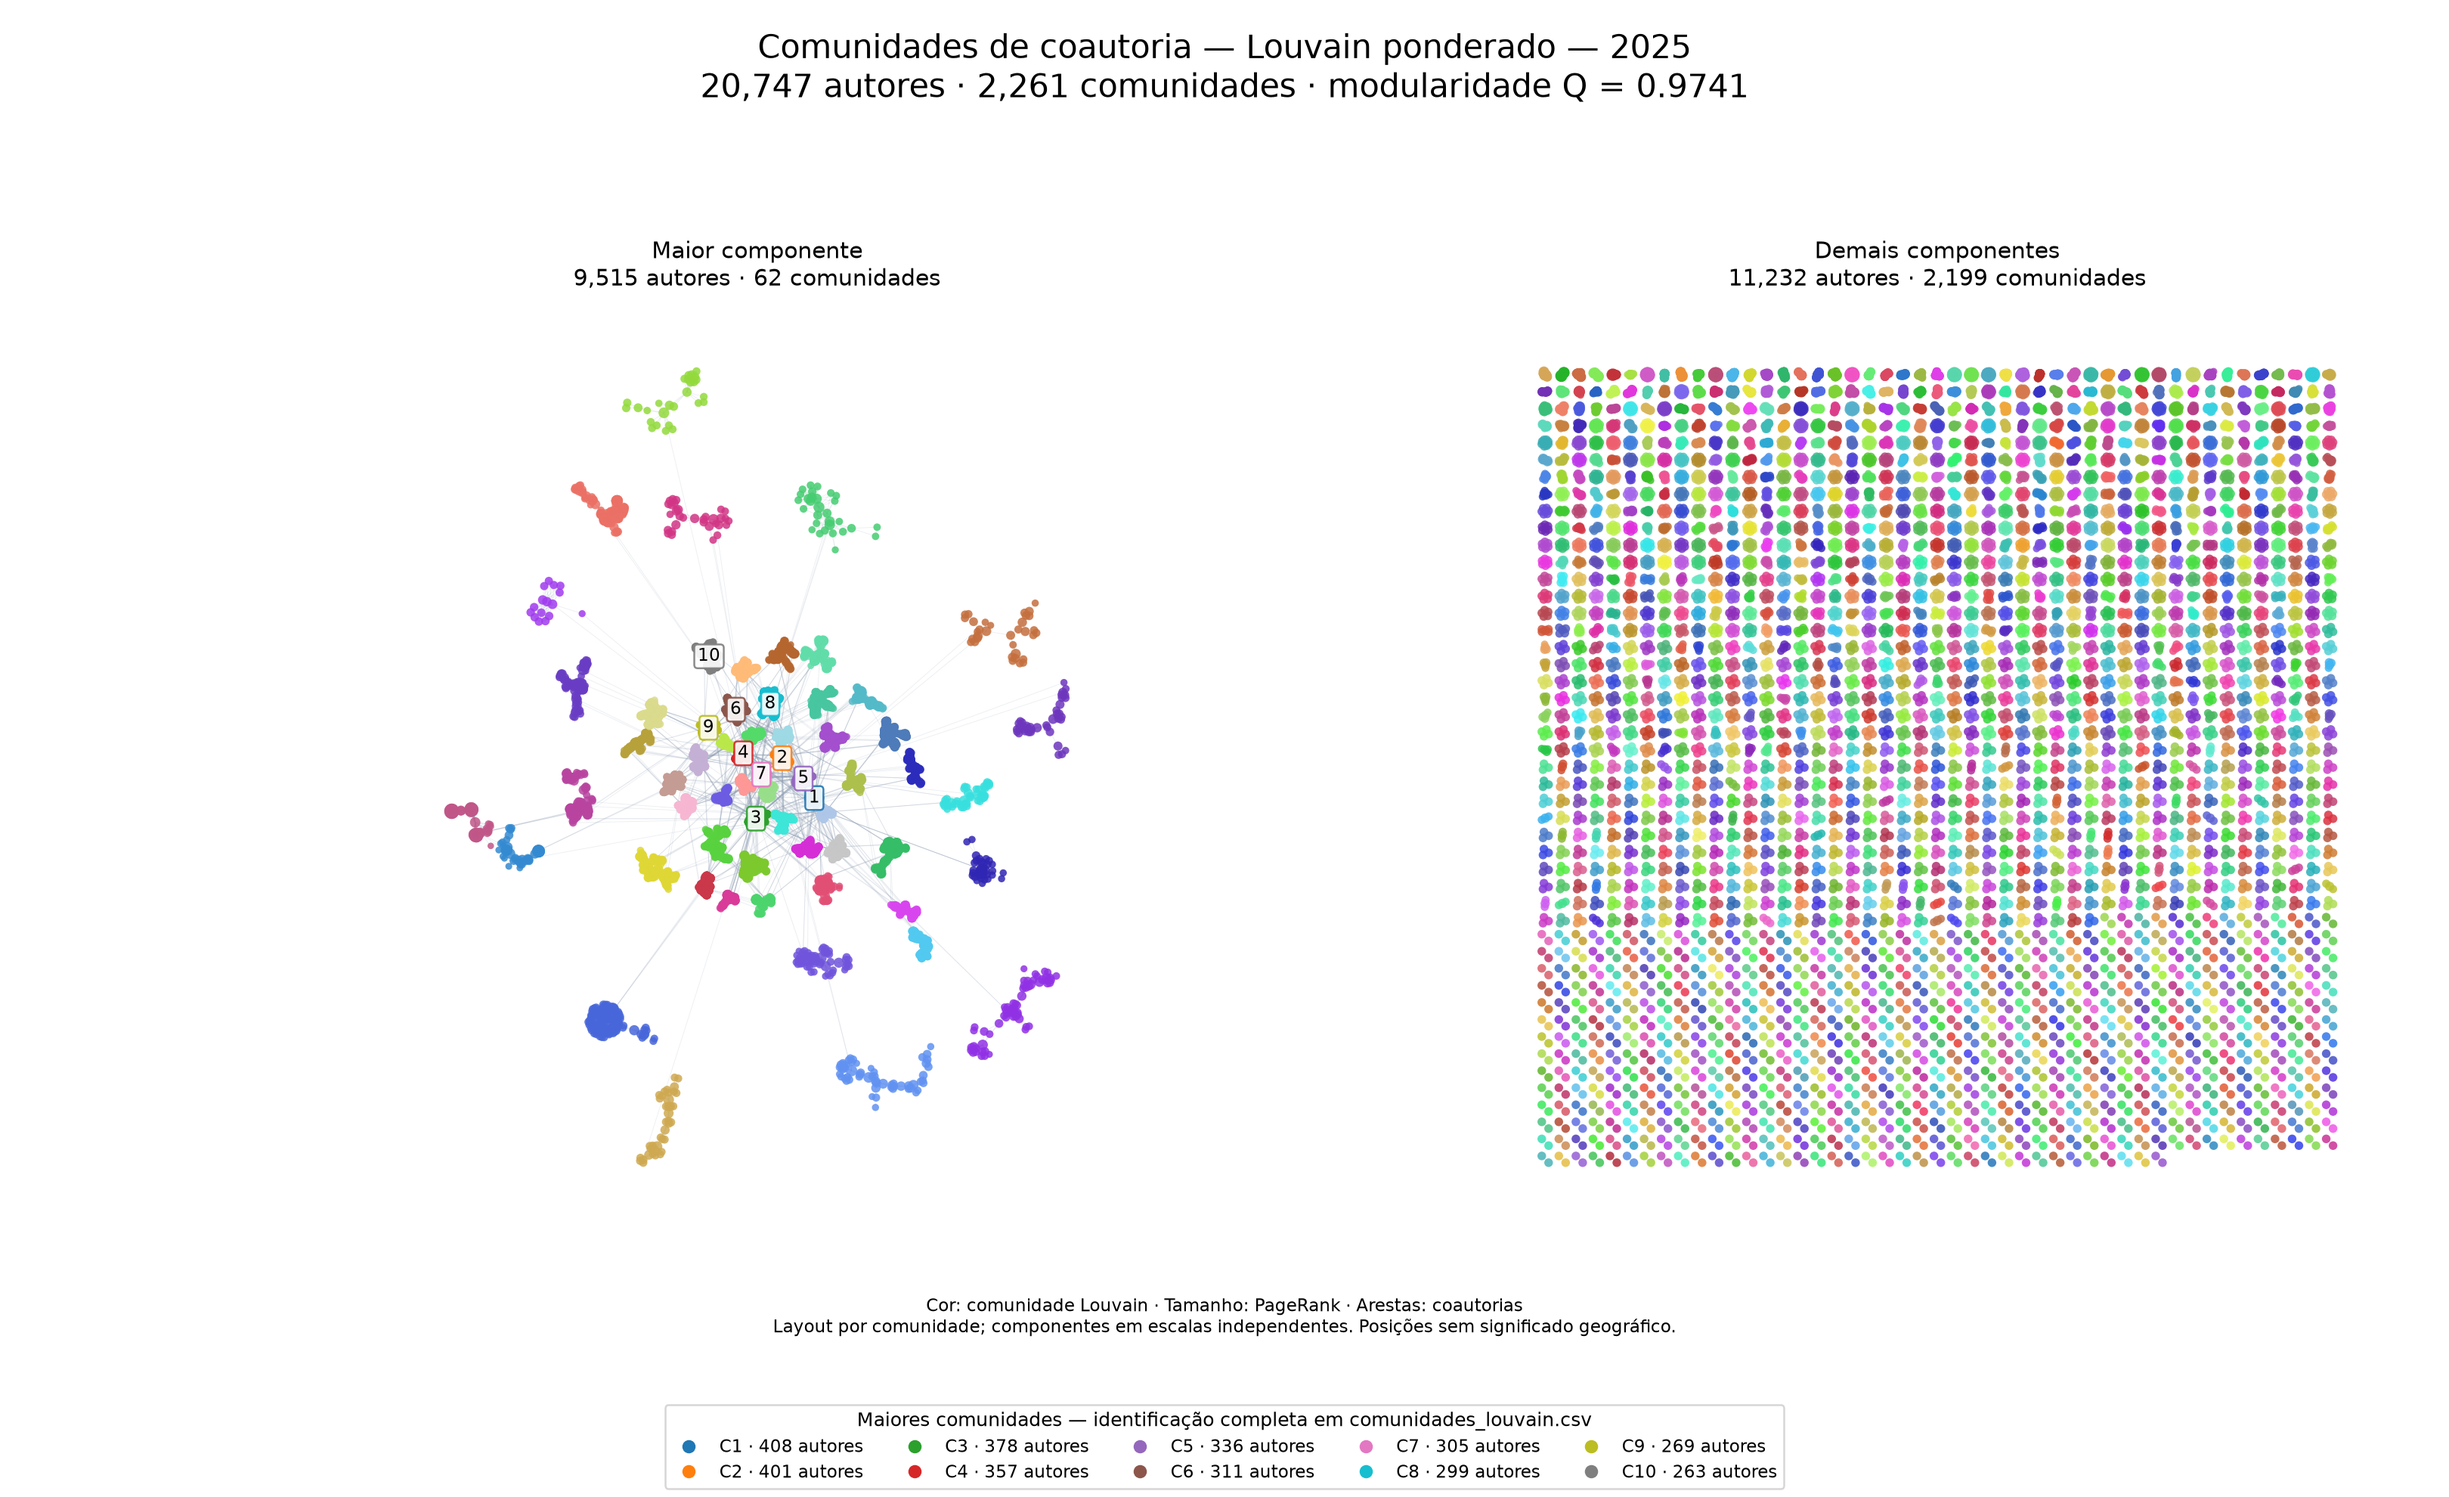
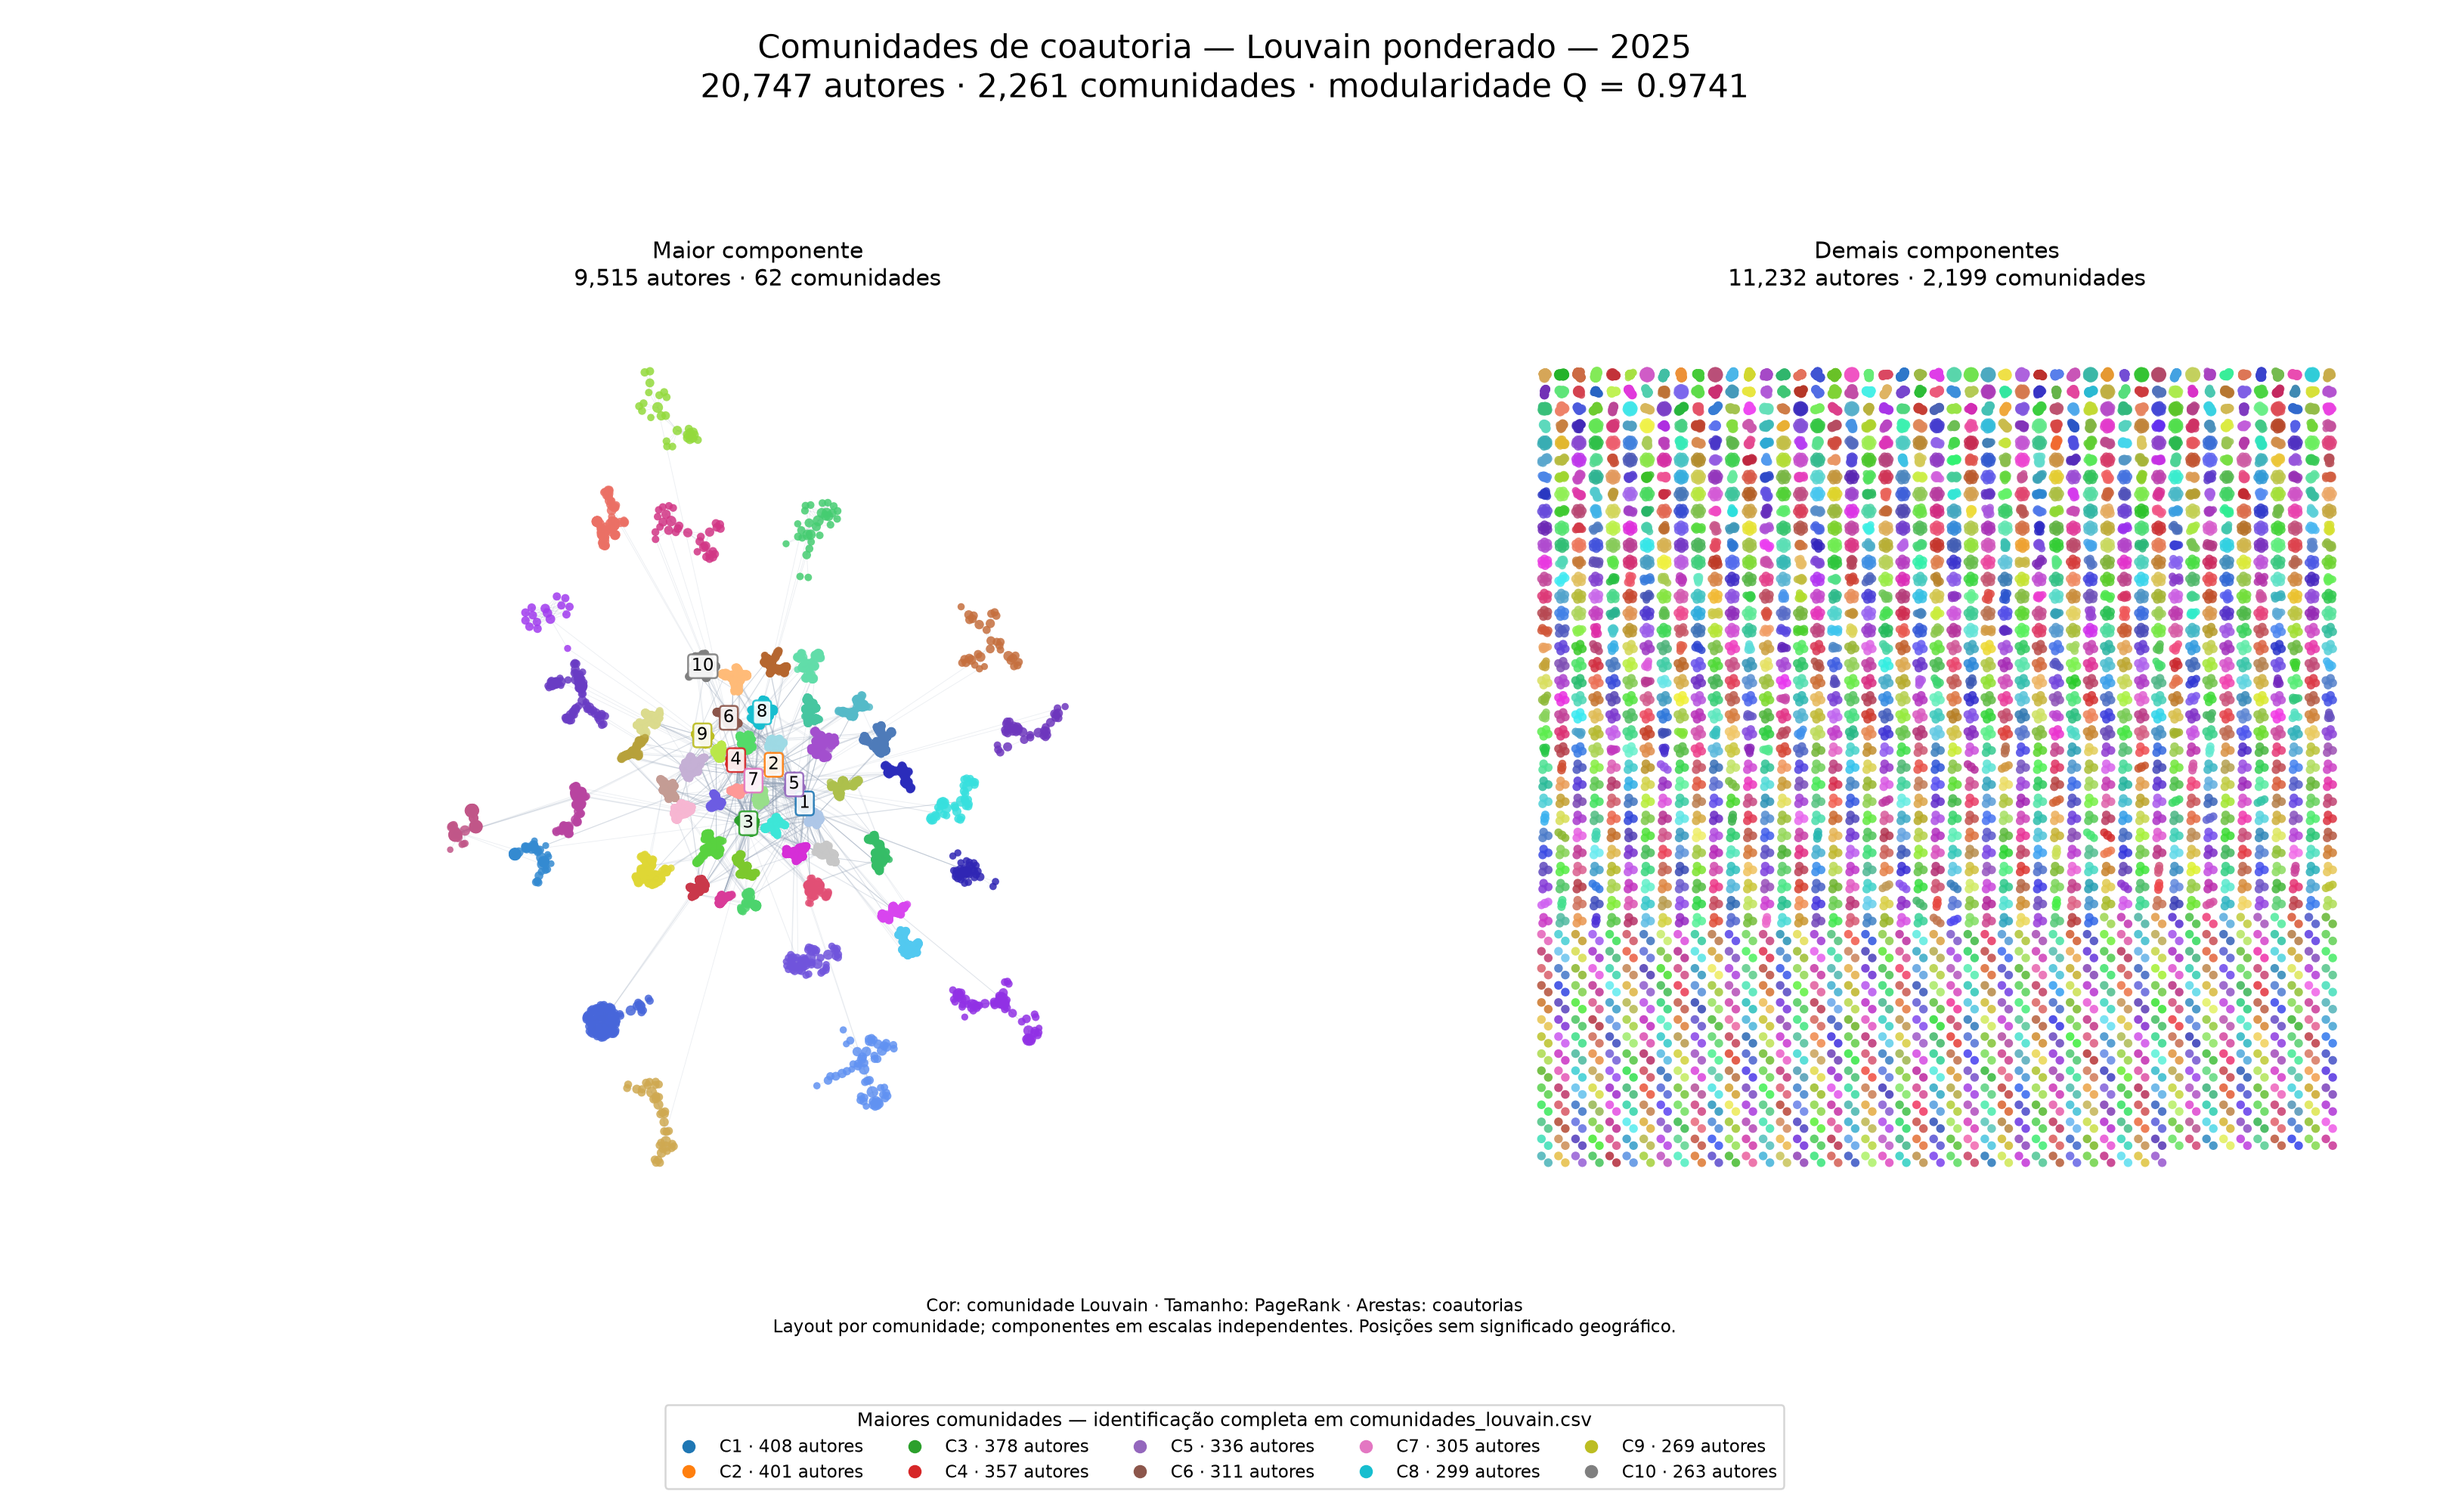
Louvain

diff --git a/run.py b/run.py
@@ -1,4 +1,4 @@
-#!/usr/bin/python3
+#!.venv/bin/python3
 
 import argparse
 import importlib.util
